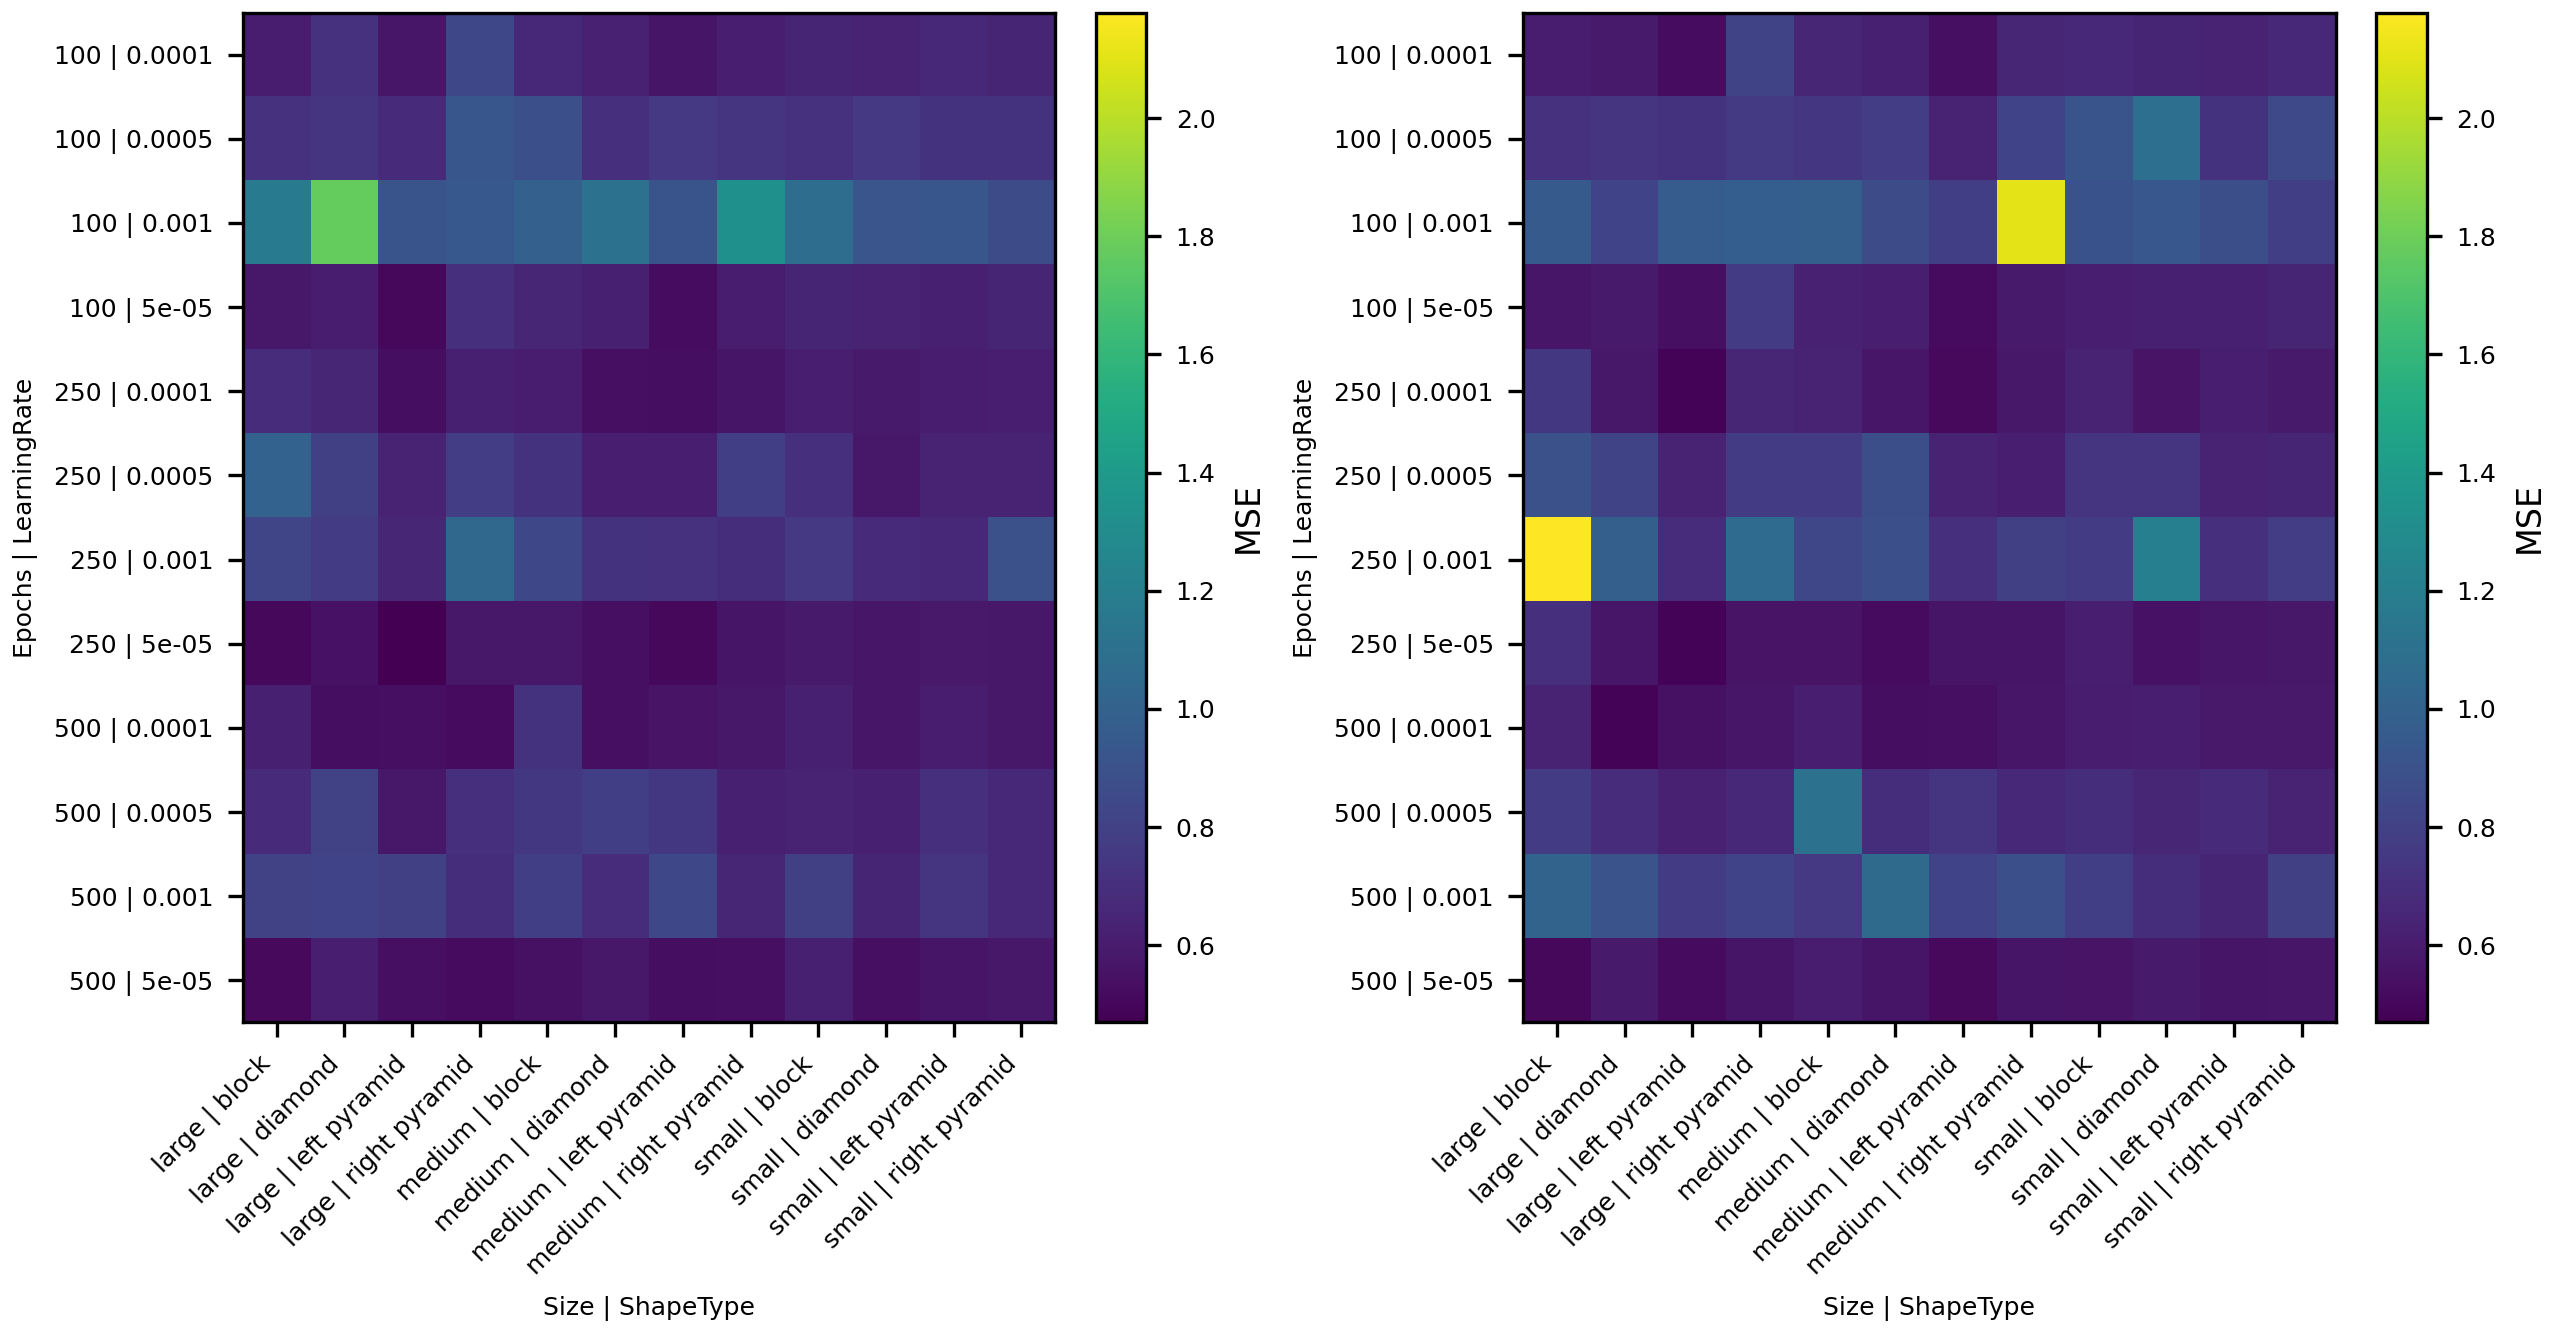
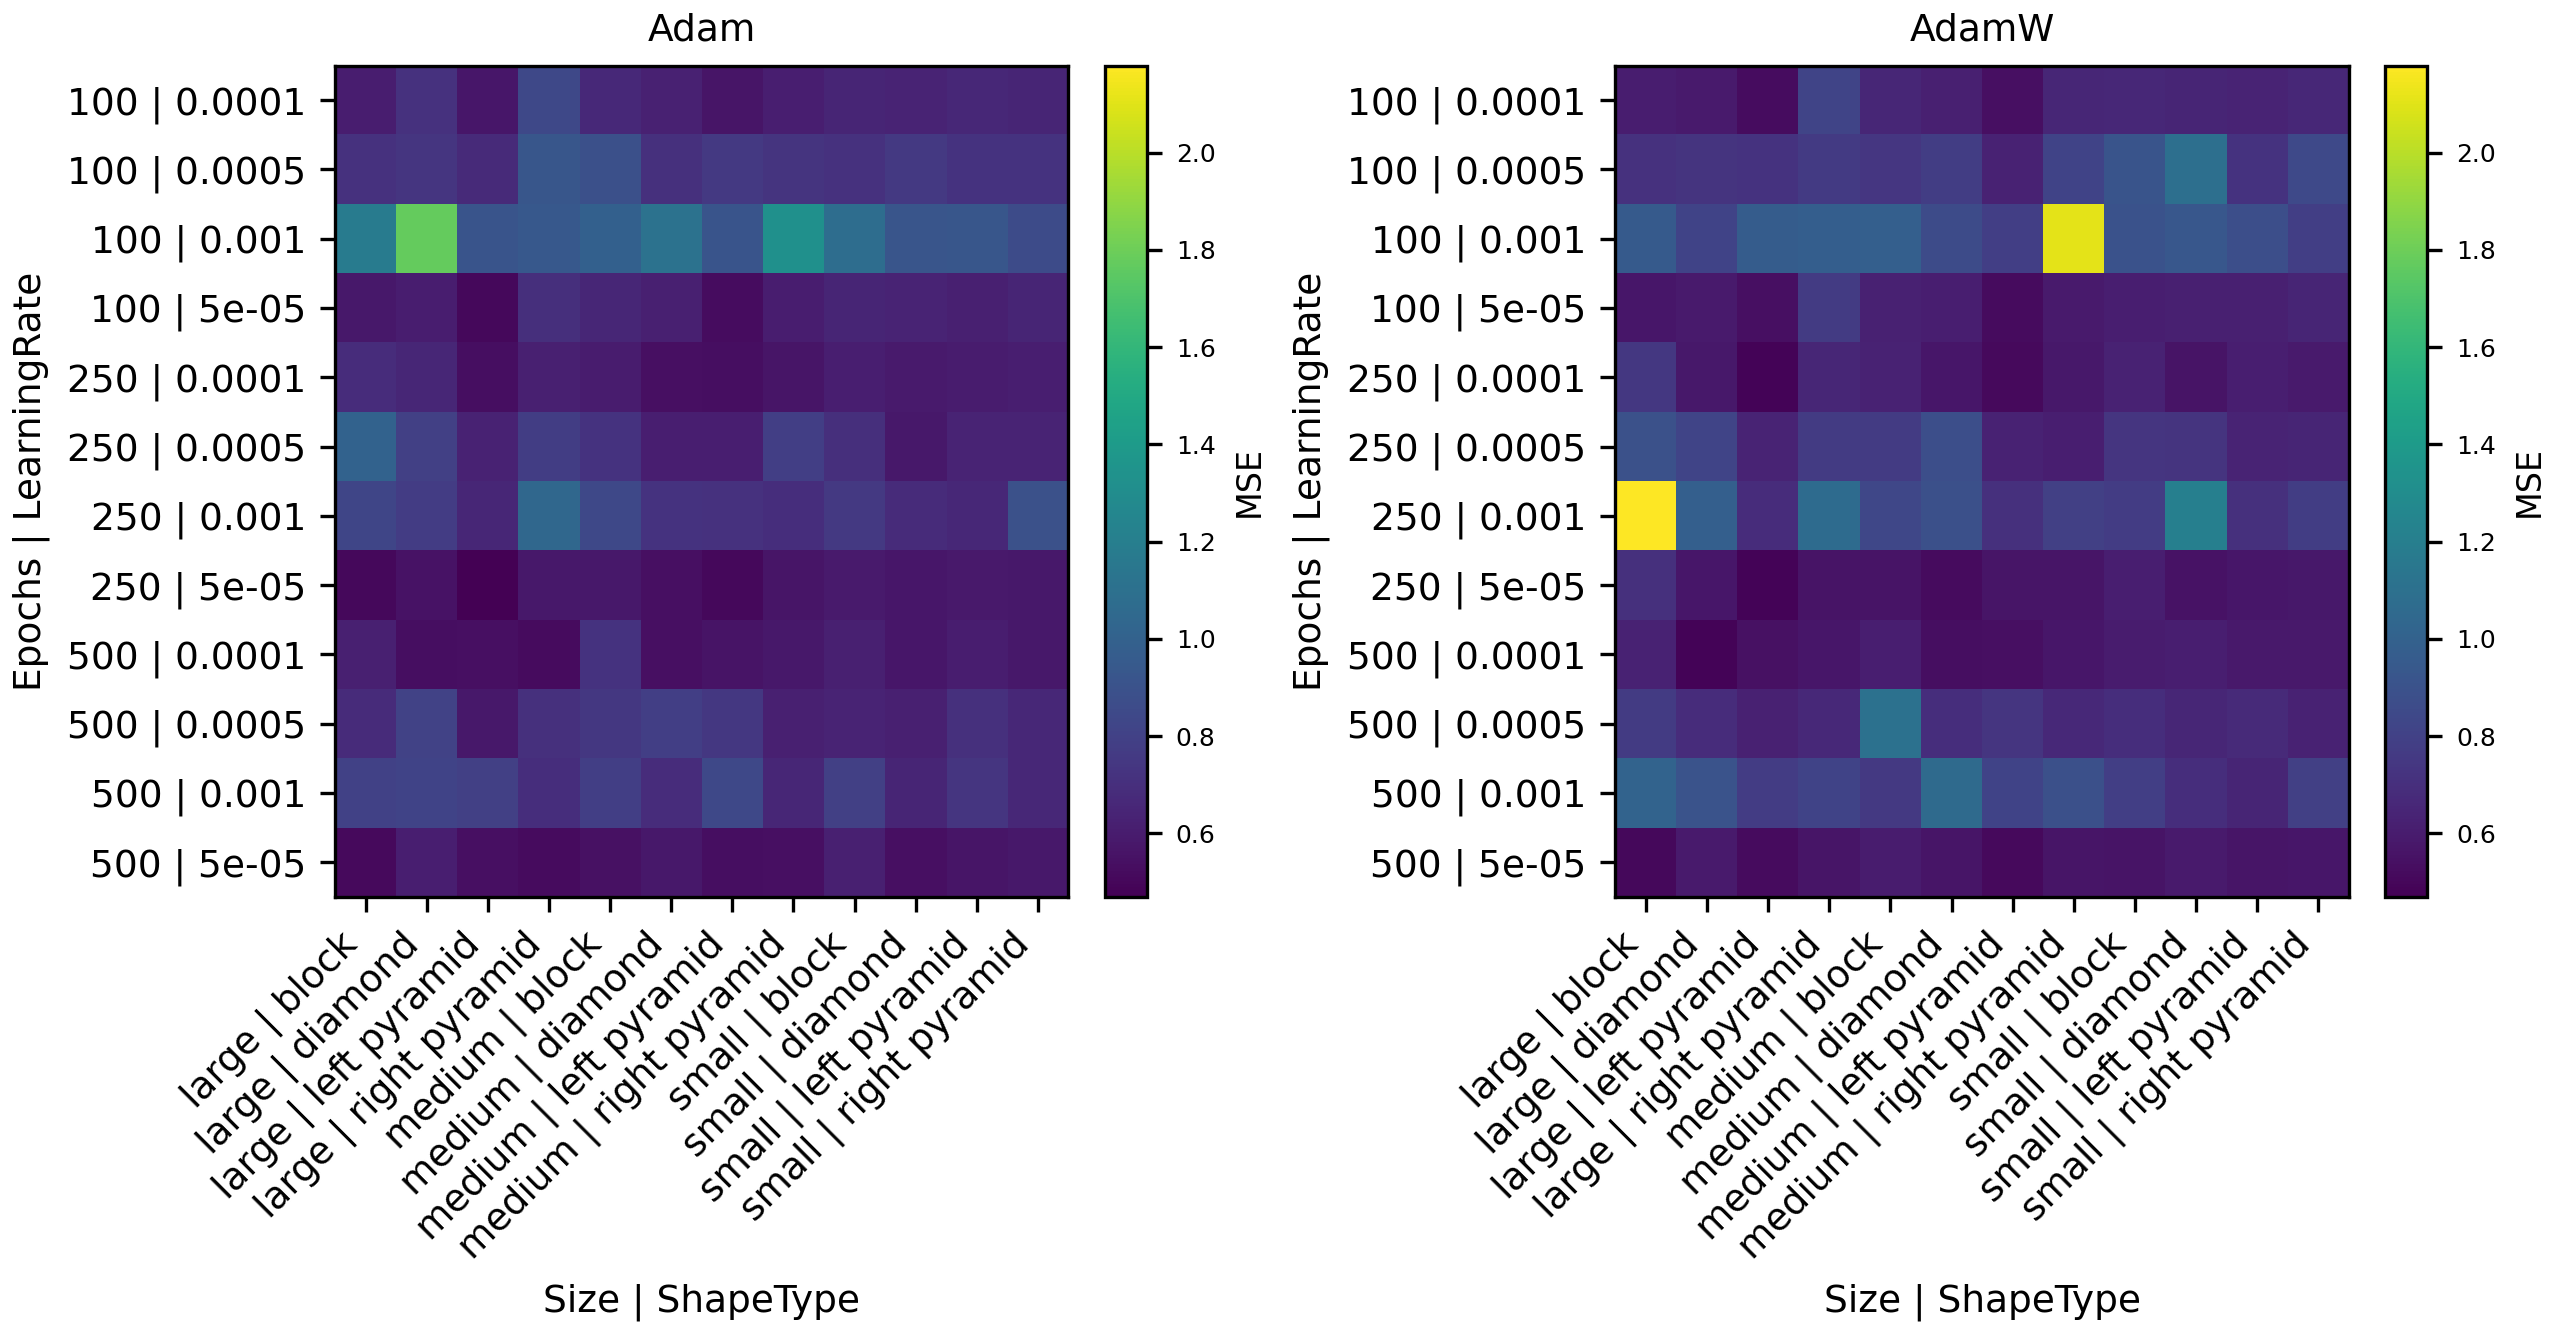
Added function axis with log spacing

diff --git a/explain_model.py b/explain_model.py
@@ -7,12 +7,12 @@ from create_model import create_model
 import matplotlib.pyplot as plt  
 
 plt.rcParams.update({
-    "font.size": 200,          # base size for everything
-    "axes.titlesize": 28,     # title of the plot
-    "axes.labelsize": 20,     # axis labels
-    "xtick.labelsize": 18,
-    "ytick.labelsize": 18,
-    "legend.fontsize": 18,
+    "font.size": 10,          # base size for everything
+    "axes.titlesize": 20,     # title of the plot
+    "axes.labelsize": 10,     # axis labels
+    "xtick.labelsize": 9,
+    "ytick.labelsize": 9,
+    "legend.fontsize": 9,
 })
 
 
@@ -65,7 +65,7 @@ n_feats = len(feature_names)
 shap.summary_plot(
     sv,
     inputs.cpu().numpy(),
-    feature_names=feature_names,
+    feature_names=["Supply water temperature\nof the heating coil (°F)","Hot water flow rate through\nthe heating coil (GPM)","Mixed air temperature (°F)","Total supply airflow (CFM)"],
     max_display=n_feats,
     show = False
 )
@@ -79,7 +79,7 @@ for ax in fig.axes:
     ax.xaxis.label.set_fontsize(26)
     ax.yaxis.label.set_fontsize(26)
     # set tick labels
-    ax.tick_params(axis='both', which='major', labelsize=28)
+    ax.tick_params(axis='both', which='major', labelsize=22)
 
 plt.tight_layout()
 plt.show()

diff --git a/goof_graph.py b/goof_graph.py
@@ -4,11 +4,11 @@ import matplotlib.pyplot as plt
 
 # Global font sizes
 plt.rcParams.update({
-    'font.size':        6,
-    'axes.titlesize':   6,
-    'axes.labelsize':   6,
-    'xtick.labelsize':  6,
-    'ytick.labelsize':  6,
+    'font.size':        9,
+    'axes.titlesize':   9,
+    'axes.labelsize':   9,
+    'xtick.labelsize':  9,
+    'ytick.labelsize':  9,
 })
 
 # Load & parse
@@ -44,6 +44,7 @@ global_max = df['mse'].max()
 # 3) Plot with the same vmin/vmax
 fig, axes = plt.subplots(1, 2, figsize=(14, 6), dpi=300, constrained_layout=True)
 for ax, opt in zip(axes, ['Adam', 'AdamW']):
+    ax.set_title(opt)
     subset = df[df['optimizer'] == opt]
     pivot = subset.pivot(index='ygroup', columns='xgroup', values='mse')
     im = ax.imshow(

diff --git a/test3.py b/test3.py
@@ -5,6 +5,7 @@ import re
 
 results = pd.read_csv("results.csv")
 y_test = pd.read_csv("data/y_test.csv")
+X_test = pd.read_csv("data/X_test.csv")
 Models = results["Model"]
 MSE = results["MSE"]
 R2 =  results["R^2"]
@@ -12,5 +13,5 @@ MAE =  results["MAE"]
 CV =  results["CV"]
 Count =  results["Count"]
 
-print(y_test.mean())
+print(X_test.describe())
 
